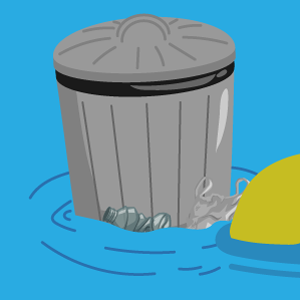
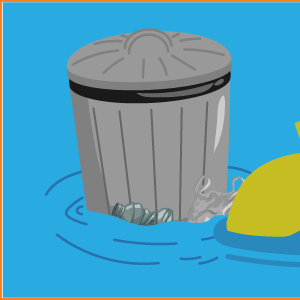
Adição de funções para página final do jogo e correções de imagem

Changed region(s): [[0.0, 0.0, 1.0, 1.0], [0.99, 0.39, 1.0, 0.48], [0.09, 0.63, 0.12, 0.66]]

diff --git a/src/js/index.js b/src/js/index.js
@@ -69,10 +69,10 @@ function getMatrix() {
 }
 function getShipObject() {
     return [
-        { shipSize: 5, shipQuantity: 1, shipPoints: 10 },
-        { shipSize: 4, shipQuantity: 1, shipPoints: 8 },
-        { shipSize: 3, shipQuantity: 2, shipPoints: 6 },
-        { shipSize: 2, shipQuantity: 3, shipPoints: 4 }
+        { shipSize: 5, shipQuantity: 1, shipPoints: 10, shipImage: '<img src="../img/ships/horizontal/5/inteiro5.png"/>' },
+        { shipSize: 4, shipQuantity: 1, shipPoints: 8, shipImage: '<img src="../img/ships/horizontal/4/inteiro4.png"/>' },
+        { shipSize: 3, shipQuantity: 2, shipPoints: 6, shipImage: '<img src="../img/ships/horizontal/3/inteiro3.png"/>' },
+        { shipSize: 2, shipQuantity: 3, shipPoints: 4, shipImage: '<img src="../img/ships/horizontal/2/inteiro2.png"/>' }
     ];
 }
 function getRndInteger(min, max) {
@@ -175,6 +175,15 @@ function calculateScore(currentImageShip) {
         var totalScore = currentPlayer.getAttribute("score");
         totalScore = parseInt(totalScore) + shipScore;
         currentPlayer.setAttribute("score", totalScore);
+        var findShipImage = allShips.find(f => f.shipSize === shipSize).shipImage;
+        var currentPlayerEndGame = document.getElementById("grid").getAttribute("currentPlayer");
+        currentPlayerEndGame = parseInt(currentPlayerEndGame);
+        currentPlayerEndGame = document.getElementsByClassName("playerDisplay")[currentPlayerEndGame];
+        var divImage = document.createElement("div");
+        divImage.className += "imageEndGameScore row";
+        divImage.innerHTML = findShipImage;
+        divImage.setAttribute("hidden", "hidden")
+        currentPlayerEndGame.appendChild(divImage);
     }
 }
 function movesForCurrentPlayer() {
@@ -188,7 +197,7 @@ function changePlayer(moves, board) {
 
     if (moves === 5) {
         if (board.getAttribute("totalPlayers") === board.getAttribute("currentPlayer")) {
-            alert("O jogo acabou!");
+            endGameScreen();
             return;
         }
         board.setAttribute("movesPlayed", 0);
@@ -207,31 +216,31 @@ function showPlayersNames(e) {
     var playersQuantity = parseInt(e.getAttribute("value"))
     switch (playersQuantity) {
         case 1:
-            document.getElementById("firstPlayerName").removeAttribute("hidden");
-            document.getElementById("secondPlayerName").setAttribute("hidden", "hidden");
-            document.getElementById("thirdPlayerName").setAttribute("hidden", "hidden");
-            document.getElementById("fourthPlayerName").setAttribute("hidden", "hidden");
+            document.getElementById("firstPlayerName").className = "";
+            document.getElementById("secondPlayerName").className = "hideInput";
+            document.getElementById("thirdPlayerName").className = "hideInput";
+            document.getElementById("fourthPlayerName").className = "hideInput";
             break;
 
         case 2:
-            document.getElementById("firstPlayerName").removeAttribute("hidden");
-            document.getElementById("secondPlayerName").removeAttribute("hidden");
-            document.getElementById("thirdPlayerName").setAttribute("hidden", "hidden");
-            document.getElementById("fourthPlayerName").setAttribute("hidden", "hidden");
+            document.getElementById("firstPlayerName").className = "";
+            document.getElementById("secondPlayerName").className = "";
+            document.getElementById("thirdPlayerName").className = "hideInput";
+            document.getElementById("fourthPlayerName").className = "hideInput";
             break;
 
         case 3:
-            document.getElementById("firstPlayerName").removeAttribute("hidden");
-            document.getElementById("secondPlayerName").removeAttribute("hidden");
-            document.getElementById("thirdPlayerName").removeAttribute("hidden");
-            document.getElementById("fourthPlayerName").setAttribute("hidden", "hidden");
+            document.getElementById("firstPlayerName").className = "";
+            document.getElementById("secondPlayerName").className = "";
+            document.getElementById("thirdPlayerName").className = "";
+            document.getElementById("fourthPlayerName").className = "hideInput";
             break;
 
         case 4:
-            document.getElementById("firstPlayerName").removeAttribute("hidden");
-            document.getElementById("secondPlayerName").removeAttribute("hidden");
-            document.getElementById("thirdPlayerName").removeAttribute("hidden");
-            document.getElementById("fourthPlayerName").removeAttribute("hidden");
+            document.getElementById("firstPlayerName").className = "";
+            document.getElementById("secondPlayerName").className = "";
+            document.getElementById("thirdPlayerName").className = "";
+            document.getElementById("fourthPlayerName").className = "";
             break;
     }
 }
@@ -249,7 +258,7 @@ function startGameOnClick() {
 function validatePlayers() {
     var childForm = document.getElementById("formPlayersName").children
     for (var i = 0; i < childForm.length; ++i) {
-        if (!childForm[i].hasAttribute("hidden")) {
+        if (childForm[i].className === "") {
             childForm[i].getElementsByTagName("input")[0].value;
             if (childForm[i].getElementsByTagName("input")[0].value === "") {
                 alert("Preencha o seu nome!");
@@ -257,24 +266,25 @@ function validatePlayers() {
             }
         }
     }
-
     return true;
 }
 function createMapPlayers() {
     var childForm = document.getElementById("formPlayersName").children;
     var countPlayers = 0;
     for (var i = 0; i < childForm.length; ++i) {
-        if (!childForm[i].hasAttribute("hidden")) {
+        if (childForm[i].className === "") {
             var playerName = childForm[i].getElementsByTagName("input")[0].value;
             var spanPlayer = document.createElement("span");
             spanPlayer.setAttribute("player", i);
             spanPlayer.setAttribute("score", 0);
             spanPlayer.setAttribute("name", playerName);
             document.getElementById("players").appendChild(spanPlayer);
+            var createPlayerDiv = document.createElement("div");
             var playerDisplay = document.createElement("h1");
             playerDisplay.textContent = playerName;
-            playerDisplay.className += "playerDisplay"; //Classe para fazer o css dos nomes ao lado do board
-            document.getElementById("playerNames").appendChild(playerDisplay);
+            createPlayerDiv.className += "playerDisplay"; //Classe para fazer o css dos nomes ao lado do board
+            createPlayerDiv.appendChild(playerDisplay)
+            document.getElementById("playerNames").appendChild(createPlayerDiv);
             ++countPlayers;
         }
     }
@@ -283,6 +293,32 @@ function createMapPlayers() {
 }
 function unlockPlay() {
     document.getElementById("changePlayerButton").className = "btn btn-info hideButton";
-
 }
 
+function endGameScreen() {
+    document.getElementById("grid").setAttribute("hidden", "hidden");
+    document.getElementById("divCurrentPlayerPlaying").setAttribute("hidden", "hidden");
+    var players = document.getElementsByClassName("playerDisplay");
+    for (i = players.length - 1; i >= 0; --i) {
+        var playersChild = players[i].getElementsByTagName("div");
+        if (playersChild.length > 0) {
+            for (j = 0; j < playersChild.length; ++j) {
+                playersChild[j].removeAttribute("hidden");
+            }
+        }
+        else {
+            var createPlayerDiv = document.createElement("div");
+            var createPlayerImg = document.createElement("img");
+            createPlayerImg.src = "../img/sadDolphin.png";
+            createPlayerDiv.className = "imageEndGameScore row";
+            createPlayerDiv.appendChild(createPlayerImg);
+            players[i].appendChild(createPlayerDiv);
+
+
+        }
+        players[i].className = "endGamePlayerDisplay";
+       
+    }
+    var playersNamesEndGameScreen = document.getElementById("playerNames");
+    playersNamesEndGameScreen.className = "col-12 text-center";
+}

diff --git a/src/html/index.html b/src/html/index.html
@@ -14,13 +14,13 @@
 
 <body>
 
-    <div class="blockquote" id="inicialPage">
+    <div class="blockquote text-center" id="inicialPage">
 
         <p>Selecione a quantidade de jogadores: </p>
         <div>
             <form>
                 <input type="radio" id="player1" onclick="showPlayersNames(this)" name="player" value="1" />
-                <label for="player1">1 Jogador</label><br>
+                <label for="player1">1 Jogador&nbsp;&nbsp;&nbsp;</label><br>
                 <input type="radio" id="player2" onclick="showPlayersNames(this)" name="player" value="2" />
                 <label for="player2">2 Jogadores</label><br>
                 <input type="radio" id="player3" onclick="showPlayersNames(this)" name="player" value="3" />
@@ -29,25 +29,25 @@
                 <label for="player 4">4 Jogadores</label>
             </form>
             <div id="formPlayersName">
-                <form hidden="hidden" id="firstPlayerName">
+                <form class="hideInput" id="firstPlayerName">
                     <label for="firstPlayerName">Nome do jogador 1:</label><br>
                     <input type="text" name="firstPlayerName" value=""><br>
                 </form>
-                <form hidden="hidden" id="secondPlayerName">
+                <form class="hideInput" id="secondPlayerName">
                     <label for="secondPlayerName">Nome do jogador 2:</label><br>
                     <input type="text" name="secondPlayerName"><br>
                 </form>
-                <form hidden="hidden" id="thirdPlayerName">
+                <form class="hideInput" id="thirdPlayerName">
                     <label for="thirdPlayerName">Nome do jogador 3:</label><br>
                     <input type="text" name="thirdPlayerName"><br>
                 </form>
-                <form hidden="hidden" id="fourthPlayerName">
+                <form class="hideInput" id="fourthPlayerName">
                     <label for="fourthPlayerName">Nome do jogador 4:</label><br>
                     <input type="text" name="fourthPlayerName"><br>
                 </form>
             </div>
 
-            <input id="buttonPlayerSelect" type="button" onclick="startGameOnClick()" value="Enviar">
+            <input id="buttonPlayerSelect" class="btn btn-info btn-lg" type="button" onclick="startGameOnClick()" value="Jogar!">
         </div>
 
 
@@ -61,7 +61,7 @@
             <div class="row">
                 <div id="playerNames" class="col-4 text-left">
 
-                    <div class="text-center">
+                    <div class="text-center" id="divCurrentPlayerPlaying">
                         <p id="currentPlayerPlaying"></p>
                         <button id="changePlayerButton" class="btn btn-info hideButton" onclick="unlockPlay()" >Minha vez!</button>
                     </div>
@@ -333,8 +333,9 @@
             </div>
         </div>
     </div>
-
-    <footer class="footer navbar-fixed-bottom" id="footer">
+    <div hidden="hidden" id="hiddenImagesScore"></div>
+    <footer class="footer fixed-bottom" id="footer">
+        <hr />
         <p>Desenvolvido por gurizada!</p>
     </footer>
 

diff --git a/src/css/index.css b/src/css/index.css
@@ -54,9 +54,9 @@
 
 #buttonPlayerSelect {
     margin-top: 2vh;
-    background: white;
+    /*background: white;
     border-radius: 8px;
-    border-color: black
+    border-color: black*/
 }
 
 #currentPlayerPlaying {
@@ -76,5 +76,16 @@
 }
 
 .hideButton{
+    visibility: hidden;
+}
+
+.imageEndGameScore img {
+    margin: 0 auto;
+    display: block;
+    width: auto;
+    height: 14vh;
+}
+
+.hideInput {
     visibility: hidden;
 }
